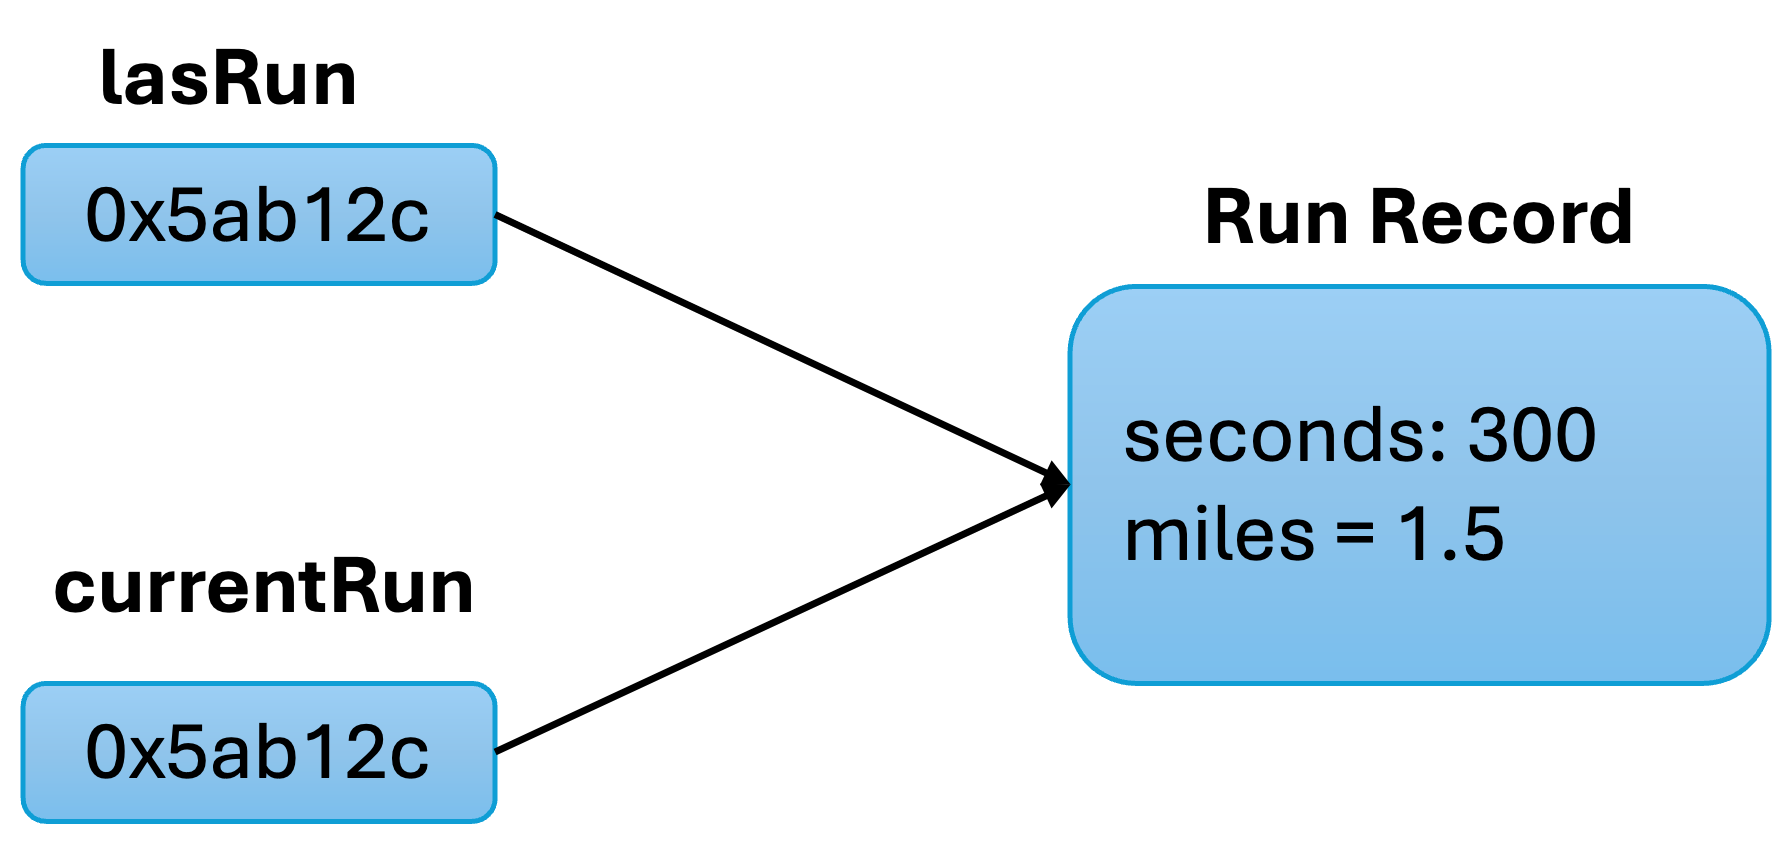
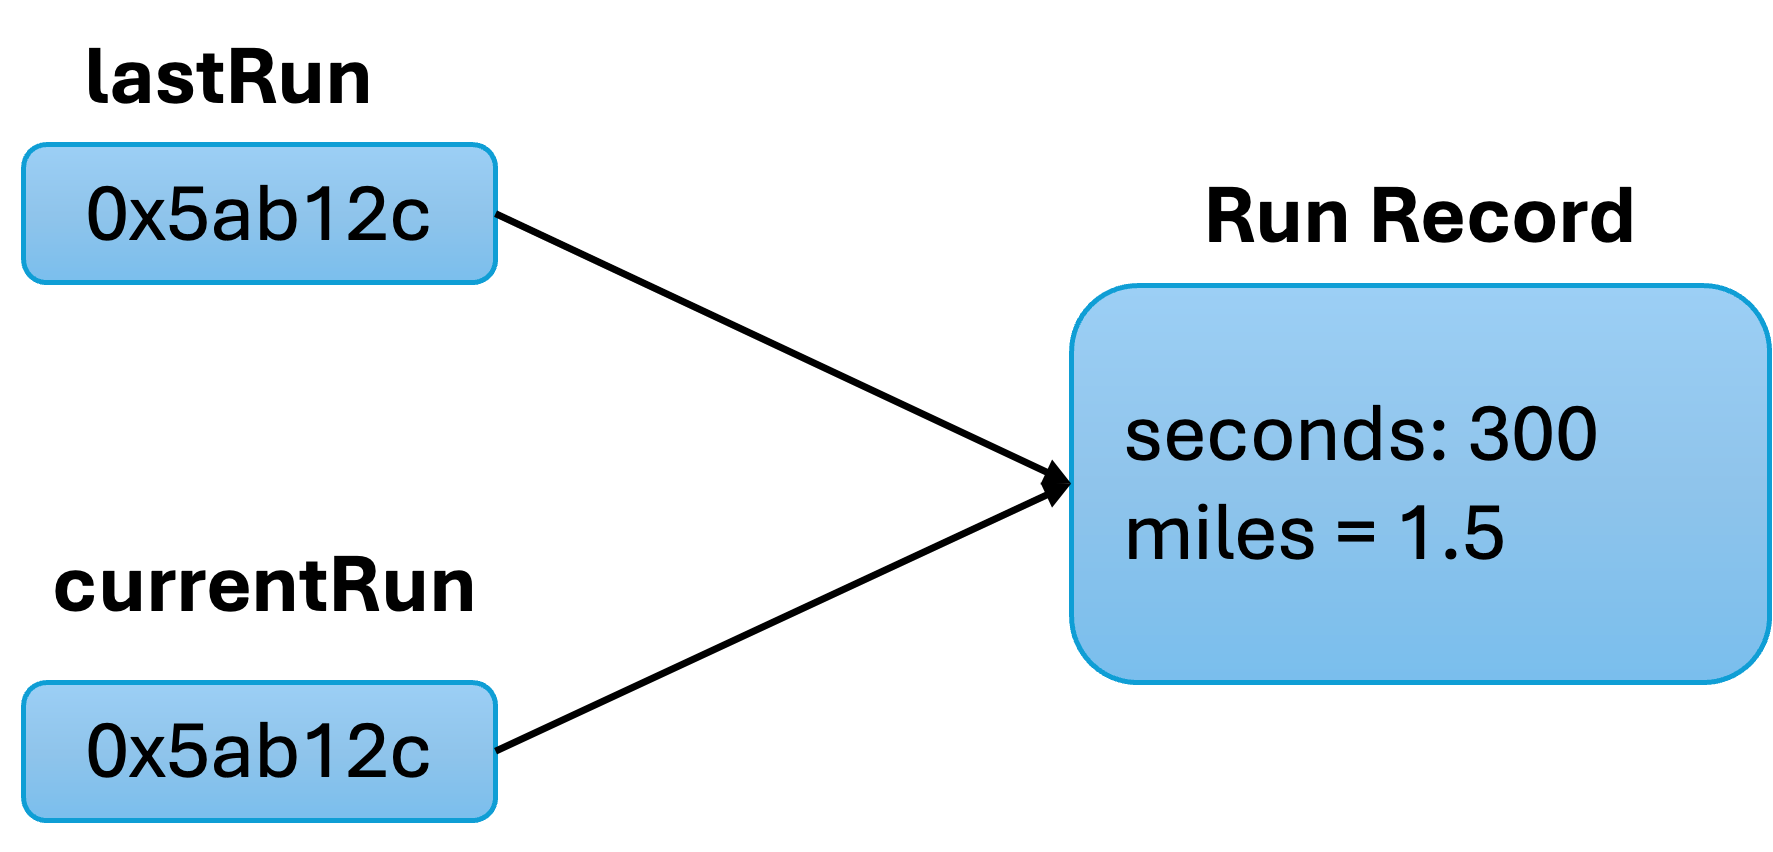
update slide

diff --git a/cop2253-slides/07_objects_classes.html b/cop2253-slides/07_objects_classes.html
@@ -355,20 +355,33 @@ lunchPlace.print();</code></pre>
     </ul>
 
     <pre data-xleftmargin="3pt" data-frame="leftline" data-fontsize="small"><code class="language-java">public class TimeConverter {
-  public static void convertPrimitive(int totalMinutes, int hours, int minutes) {...}
-  public static void convertObject(TimeResult result, int totalMinutes) {...}
+    public static void convertPrimitive(int totalMinutes, int hours, int minutes) {
+        hours = totalMinutes / 60;
+        minutes = totalMinutes % 60;
+    }
 
-  static class TimeResult {
-      int hours;
-      int minutes;
-  }
-  public static void main(String[] args) {
-      int totalMinutes = 156;
-      int hours = 0;
-      int minutes = 0;
-      convertPrimitive(totalMinutes, hours, minutes);
-      TimeResult result = new TimeResult();
-      convertObject(result, totalMinutes);;
+    public static void convertObject(TimeResult result, int totalMinutes) {
+        result.hours = totalMinutes / 60;
+        result.minutes = totalMinutes % 60;
+    }
+
+    // This small object lets a method update two related values.
+    static class TimeResult {
+        int hours;
+        int minutes;
+    }
+
+    public static void main(String[] args) {
+        int totalMinutes = 156;
+        int hours = 0;
+        int minutes = 0;
+
+        convertPrimitive(totalMinutes, hours, minutes);
+        System.out.println("Primitive result: " + hours + " hrs " + minutes + " mins");
+
+        TimeResult result = new TimeResult();
+        convertObject(result, totalMinutes);
+        System.out.println("Object result: " + result.hours + " hrs " + result.minutes + " mins");
     }
 }</code></pre>
 <ul>
@@ -391,6 +404,10 @@ lunchPlace.print();</code></pre>
 <li><p>There is one object, but two references to it.</p></li>
 <li><p>example: <code>ReferenceAliasing.java</code></p></li>
 </ul>
+<pre data-xleftmargin="3pt" data-frame="leftline" data-fontsize="small"><code class="language-java">
+RunRecord lastRun = new RunRecord();
+RunRecord currentRun = lastRun;
+</code></pre>
 
 
   <img
